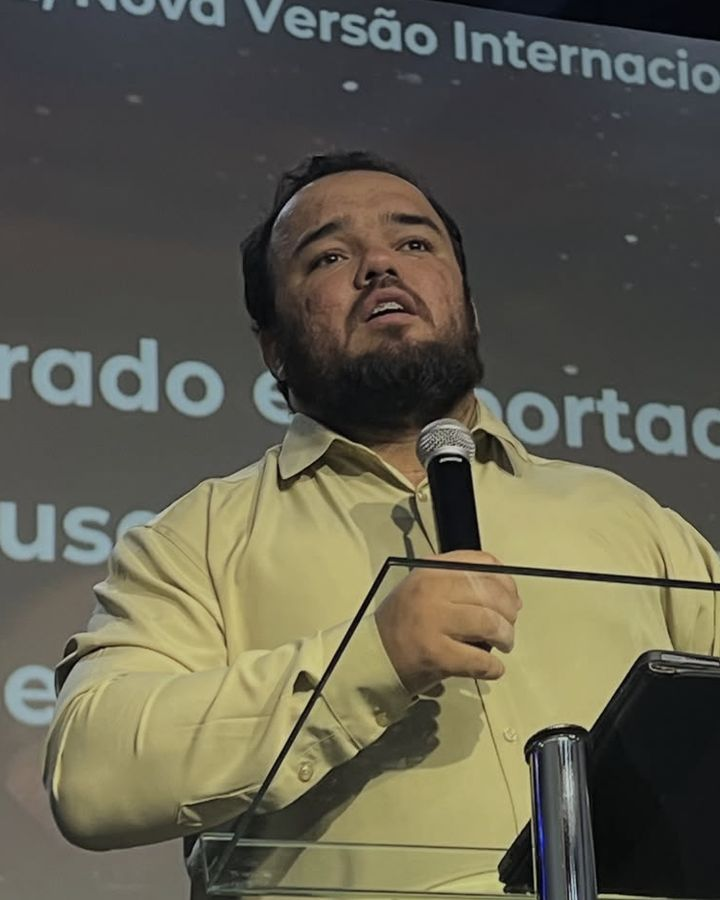
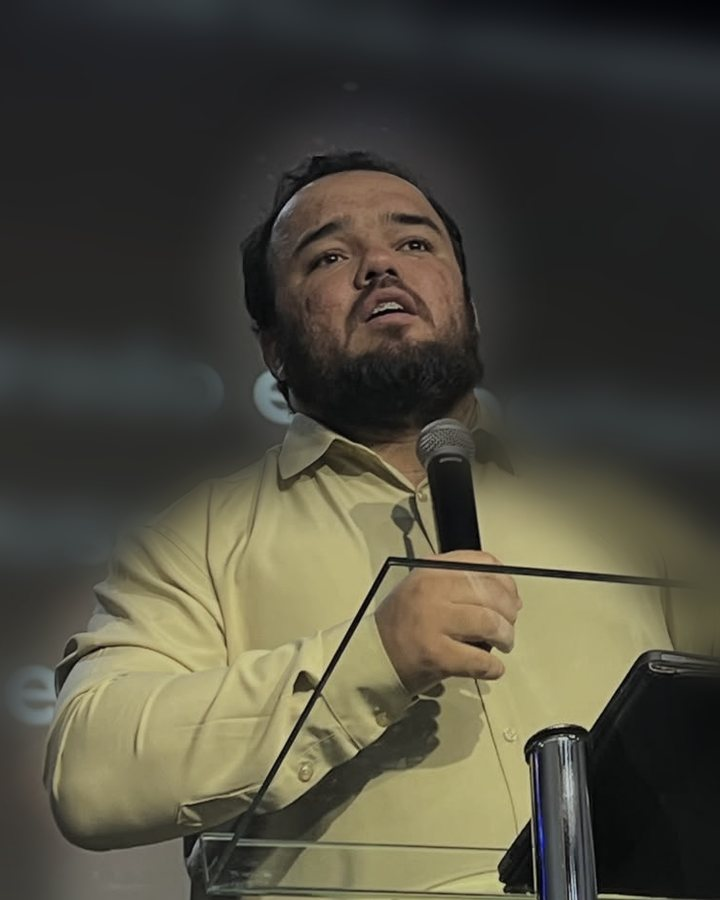
Pastores: seção mais sóbria e profissional
Remove adesivos, faixa inclinada e moldura torta; foto reta com moldura fina,
cargo discreto, contador e navegação sem troca automática. Faixa de versículos
passa a ficar reta entre pastores e ministérios. Fundo do telão desfocado na
foto do Pr. Sebastião Neto.

Claude-Session: https://claude.ai/code/session_01Q2VBkHs8J5TTuFMLHCCTsK

diff --git a/sites/palavra-da-vida/css/style.css b/sites/palavra-da-vida/css/style.css
@@ -241,70 +241,92 @@ em { font-style: italic; }
 }
 
 /* =========================================================
-   Pastores
+   Pastores (sóbrio: sem adesivos, foto reta, moldura fina)
    ========================================================= */
-.pastores { background: var(--ink); color: var(--paper-3); padding: clamp(72px, 9vw, 112px) 0; position: relative; overflow: hidden; }
-.pastores__head { position: relative; text-align: center; padding: 28px 0 44px; }
-.pastores__head h2 { font-size: clamp(2.4rem, 5.4vw, 4.2rem); line-height: 1.04; letter-spacing: -.02em; }
+.pastores { background: var(--ink); color: var(--paper-3); padding: clamp(80px, 10vw, 128px) 0; }
+.pastores__head {
+  display: flex; align-items: flex-end; justify-content: space-between; gap: 32px; flex-wrap: wrap;
+  padding-bottom: clamp(36px, 5vw, 56px); margin-bottom: clamp(40px, 6vw, 72px);
+  border-bottom: 1px solid rgba(250, 246, 238, .14);
+}
+.kicker--gold { color: var(--gold-soft); margin-bottom: 14px; }
+.pastores__head h2 { font-size: clamp(2.4rem, 5vw, 4rem); line-height: 1.02; letter-spacing: -.02em; }
 .pastores__head h2 em { color: var(--gold-soft); }
-.sticker--l { position: absolute; left: 4%; top: 0; transform: rotate(-6deg); }
-.sticker--r { position: absolute; right: 5%; top: -6px; transform: rotate(5deg); }
-
-.marquee { overflow: hidden; white-space: nowrap; }
-.marquee--gold { background: var(--gold); color: var(--ink); padding: 12px 0; margin-bottom: clamp(48px, 7vw, 80px); transform: rotate(-1deg); width: 104%; margin-left: -2%; }
-.marquee__track { display: inline-flex; gap: 28px; align-items: center; animation: marquee 60s linear infinite; padding-left: 28px; }
-.marquee__track span { font-family: var(--display); font-style: italic; font-size: 1.15rem; }
-.marquee__track b { font-family: var(--body); font-style: normal; font-weight: 700; font-size: .75rem; letter-spacing: .12em; text-transform: uppercase; margin-left: 8px; }
-.marquee__track .star { font-style: normal; color: var(--plum); }
-@keyframes marquee { to { transform: translateX(-50%); } }
+.pastores__lead { margin-top: 14px; max-width: 46ch; color: rgba(250, 246, 238, .7); }
 
 .pc { outline: none; }
 .pc-track { display: grid; touch-action: pan-y; user-select: none; -webkit-user-select: none; }
 .pc-track img { -webkit-user-drag: none; pointer-events: none; }
 .pc-slide {
   grid-area: 1 / 1;
-  display: grid; grid-template-columns: minmax(0, .95fr) minmax(0, 1fr); gap: clamp(32px, 6vw, 88px); align-items: center;
-  opacity: 0; visibility: hidden; transition: opacity .6s ease, visibility .6s;
+  display: grid; grid-template-columns: minmax(0, 5fr) minmax(0, 6fr); gap: clamp(36px, 7vw, 104px); align-items: center;
+  opacity: 0; visibility: hidden; transition: opacity .5s ease, visibility .5s;
 }
 .pc-slide.is-active { opacity: 1; visibility: visible; }
-.pc-photo {
-  background: var(--paper-3); padding: 12px 12px 44px; border-radius: 6px;
-  transform: rotate(-2deg); box-shadow: 0 24px 40px -24px rgba(0, 0, 0, .6);
-  max-width: 500px; justify-self: center; width: 100%;
+.pc-photo { position: relative; max-width: 460px; width: 100%; }
+.pc-photo::before {
+  content: ""; position: absolute; inset: 16px -16px -16px 16px;
+  border: 1px solid rgba(241, 201, 124, .55); border-radius: 14px;
 }
-.pc-photo img { width: 100%; aspect-ratio: 4 / 5; object-fit: cover; object-position: 50% 20%; border-radius: 2px; }
-.pc-text h3 { font-size: clamp(2.6rem, 5.2vw, 4.4rem); line-height: 1; letter-spacing: -.02em; margin-top: 18px; }
-.pc-text p { margin: 20px 0 24px; color: rgba(250, 246, 238, .78); font-size: 1.06rem; line-height: 1.75; max-width: 46ch; }
+.pc-photo img { position: relative; width: 100%; aspect-ratio: 4 / 5; object-fit: cover; object-position: 50% 20%; border-radius: 14px; }
+.pc-role { font-size: 12px; font-weight: 700; letter-spacing: .2em; text-transform: uppercase; color: var(--gold-soft); }
+.pc-text h3 { font-size: clamp(2.4rem, 4.6vw, 3.8rem); line-height: 1.02; letter-spacing: -.02em; margin-top: 10px; }
+.pc-bio { margin: 22px 0 26px; color: rgba(250, 246, 238, .78); font-size: 1.06rem; line-height: 1.8; max-width: 46ch; }
+.pc-link { font-size: 14px; color: rgba(250, 246, 238, .75); border-bottom: 1px solid rgba(241, 201, 124, .6); padding-bottom: 2px; }
+.pc-link:hover { color: #fff; border-color: var(--gold); }
 
-.pc-nav { margin-top: clamp(40px, 5vw, 64px); display: flex; align-items: center; justify-content: space-between; gap: 24px; border-top: 1px solid rgba(250, 246, 238, .16); padding-top: 24px; }
-.pc-thumbs { display: flex; gap: clamp(8px, 2vw, 28px); flex-wrap: wrap; }
+.pc-arrows { display: flex; align-items: center; gap: 10px; }
+.pc-count { margin-right: 10px; font-size: 14px; color: rgba(250, 246, 238, .55); font-variant-numeric: tabular-nums; }
+.pc-count b { color: var(--paper-3); font-weight: 500; }
+.round {
+  width: 50px; height: 50px; border-radius: 50%; display: grid; place-items: center; cursor: pointer;
+  border: 1px solid rgba(250, 246, 238, .3); background: none; color: var(--paper-3); transition: background-color .2s, color .2s, border-color .2s;
+}
+.round:hover { background: var(--paper-3); border-color: var(--paper-3); color: var(--ink); }
+.round svg { width: 20px; height: 20px; fill: none; stroke: currentColor; stroke-width: 1.6; stroke-linecap: round; stroke-linejoin: round; }
+
+.pc-thumbs {
+  margin-top: clamp(56px, 7vw, 88px);
+  display: grid; grid-template-columns: repeat(4, 1fr); gap: 16px;
+  border-top: 1px solid rgba(250, 246, 238, .14);
+}
 .pc-thumb {
-  display: flex; align-items: center; gap: 10px; border: 0; background: none; cursor: pointer;
-  color: var(--paper-3); opacity: .5; transition: opacity .25s; padding: 4px;
+  position: relative; display: flex; align-items: center; gap: 12px; padding: 20px 0 0; text-align: left;
+  border: 0; background: none; cursor: pointer; color: var(--paper-3); opacity: .5; transition: opacity .25s;
+}
+.pc-thumb::before {
+  content: ""; position: absolute; left: 0; right: 0; top: -1px; height: 2px; background: var(--gold);
+  transform: scaleX(0); transform-origin: left; transition: transform .4s ease;
 }
 .pc-thumb:hover { opacity: .85; }
 .pc-thumb.is-active { opacity: 1; }
-.pc-thumb img { width: 44px; height: 44px; border-radius: 50%; object-fit: cover; object-position: 50% 15%; border: 2px solid transparent; transition: border-color .25s; }
-.pc-thumb.is-active img { border-color: var(--gold); }
-.pc-thumb span { font-size: 14px; font-weight: 500; }
-.pc-arrows { display: flex; gap: 10px; }
-.round {
-  width: 50px; height: 50px; border-radius: 50%; display: grid; place-items: center; cursor: pointer;
-  border: 1.5px solid rgba(250, 246, 238, .35); background: none; color: var(--paper-3); transition: background-color .2s, color .2s, border-color .2s;
-}
-.round:hover { background: var(--gold); border-color: var(--gold); color: var(--ink); }
-.round svg { width: 20px; height: 20px; fill: none; stroke: currentColor; stroke-width: 1.8; stroke-linecap: round; stroke-linejoin: round; }
+.pc-thumb.is-active::before { transform: scaleX(1); }
+.pc-thumb img { width: 46px; height: 46px; border-radius: 50%; object-fit: cover; object-position: 50% 15%; flex: none; }
+.pc-thumb span { display: grid; line-height: 1.3; min-width: 0; }
+.pc-thumb b { font-size: 15px; font-weight: 500; white-space: nowrap; overflow: hidden; text-overflow: ellipsis; }
+.pc-thumb small { font-size: 12.5px; color: rgba(250, 246, 238, .6); }
 
 @media (max-width: 860px) {
-  .pc-slide { grid-template-columns: 1fr; gap: 36px; align-items: start; }
-  .pc-photo { max-width: 360px; }
+  .pastores__head { align-items: flex-start; }
+  .pc-slide { grid-template-columns: 1fr; gap: 40px; align-items: start; }
+  .pc-photo { max-width: none; width: calc(100% - 16px); }
+  .pc-photo img { aspect-ratio: 1 / 1; object-position: 50% 18%; }
+  .pc-thumbs { gap: 6px; margin-top: 48px; }
+  .pc-thumb { flex-direction: column; align-items: center; text-align: center; gap: 8px; padding-top: 16px; }
   .pc-thumb span { display: none; }
-  .pc-thumbs { flex-wrap: nowrap; gap: 4px; }
-  .pc-thumb img { width: 40px; height: 40px; }
-  .round { width: 46px; height: 46px; }
-  .sticker--l { left: 0; top: -18px; }
-  .sticker--r { right: 0; top: auto; bottom: 4px; }
 }
+@media (max-width: 560px) {
+  .pc-count { display: none; }
+  .round { width: 46px; height: 46px; }
+}
+
+/* ---------- Faixa de versículos (entre pastores e ministérios) ---------- */
+.marquee { overflow: hidden; white-space: nowrap; background: var(--gold); color: var(--ink); padding: 14px 0; }
+.marquee__track { display: inline-flex; gap: 28px; align-items: center; animation: marquee 70s linear infinite; padding-left: 28px; }
+.marquee__track span { font-family: var(--display); font-style: italic; font-size: 1.1rem; }
+.marquee__track b { font-family: var(--body); font-style: normal; font-weight: 700; font-size: .72rem; letter-spacing: .12em; text-transform: uppercase; margin-left: 8px; }
+.marquee__track .star { font-style: normal; color: var(--plum); }
+@keyframes marquee { to { transform: translateX(-50%); } }
 
 /* =========================================================
    Ministérios

diff --git a/sites/palavra-da-vida/index.html b/sites/palavra-da-vida/index.html
@@ -118,77 +118,79 @@
 
   <!-- Pastores -->
   <section class="pastores" id="pastores">
-    <div class="wrap pastores__head">
-      <span class="sticker sticker--gold sticker--l">Uma família</span>
-      <span class="sticker sticker--plum sticker--r">Para pertencer</span>
-      <h2>Conheça os nossos <em>pastores</em></h2>
-    </div>
-
-    <div class="marquee marquee--gold" aria-hidden="true">
-      <div class="marquee__track">
-        <span>O Senhor é o meu pastor; nada me faltará. <b>Salmos 23:1</b></span><span class="star">✦</span>
-        <span>Nele estava a vida, e a vida era a luz dos homens. <b>João 1:4</b></span><span class="star">✦</span>
-        <span>Lâmpada para os meus pés é a tua palavra e luz para o meu caminho. <b>Salmos 119:105</b></span><span class="star">✦</span>
-        <span>O Senhor é o meu pastor; nada me faltará. <b>Salmos 23:1</b></span><span class="star">✦</span>
-        <span>Nele estava a vida, e a vida era a luz dos homens. <b>João 1:4</b></span><span class="star">✦</span>
-        <span>Lâmpada para os meus pés é a tua palavra e luz para o meu caminho. <b>Salmos 119:105</b></span><span class="star">✦</span>
-      </div>
-    </div>
-
     <div class="wrap">
+      <div class="pastores__head">
+        <div>
+          <p class="kicker kicker--gold">Liderança</p>
+          <h2>Nossos <em>pastores</em></h2>
+          <p class="pastores__lead">Chamados para ensinar a Palavra, cuidar das pessoas e conduzir a igreja com fé e responsabilidade.</p>
+        </div>
+        <div class="pc-arrows">
+          <span class="pc-count" aria-hidden="true"><b data-pc-current>01</b> / 04</span>
+          <button class="round" type="button" data-pc-prev aria-label="Pastor anterior"><svg viewBox="0 0 24 24" aria-hidden="true"><path d="M15 5l-7 7 7 7"/></svg></button>
+          <button class="round" type="button" data-pc-next aria-label="Próximo pastor"><svg viewBox="0 0 24 24" aria-hidden="true"><path d="M9 5l7 7-7 7"/></svg></button>
+        </div>
+      </div>
+
       <div class="pc" data-pc aria-roledescription="carrossel" aria-label="Pastores da igreja" tabindex="0">
         <div class="pc-track">
           <article class="pc-slide is-active" aria-roledescription="slide" aria-label="1 de 4">
             <figure class="pc-photo"><img src="img/pastor-rodrigo.jpg" alt="Pastor Rodrigo"></figure>
             <div class="pc-text">
-              <span class="sticker sticker--plum">Pastor principal</span>
+              <p class="pc-role">Pastor principal</p>
               <h3>Pr. Rodrigo</h3>
-              <p>À frente da Palavra da Vida, o Pr. Rodrigo conduz a igreja com a visão de ser uma família para pertencer: uma casa onde a Palavra é ensinada com clareza e cada pessoa encontra o seu lugar.</p>
-              <a class="text-link" href="https://www.instagram.com/rodrigogoveia_/" target="_blank" rel="noopener">@rodrigogoveia_</a>
+              <p class="pc-bio">À frente da Palavra da Vida, o Pr. Rodrigo conduz a igreja com a visão de ser uma família para pertencer: uma casa onde a Palavra é ensinada com clareza e cada pessoa encontra o seu lugar.</p>
+              <a class="pc-link" href="https://www.instagram.com/rodrigogoveia_/" target="_blank" rel="noopener">Instagram · @rodrigogoveia_</a>
             </div>
           </article>
           <article class="pc-slide" aria-roledescription="slide" aria-label="2 de 4">
             <figure class="pc-photo"><img src="img/pastora-luciana.jpg" alt="Pastora Luciana" loading="lazy"></figure>
             <div class="pc-text">
-              <span class="sticker sticker--plum">Pastora</span>
+              <p class="pc-role">Pastora</p>
               <h3>Pra. Luciana</h3>
-              <p>A Pra. Luciana serve a igreja com cuidado e sensibilidade. Caminha de perto com as pessoas e encoraja cada uma a viver o propósito de Deus com alegria.</p>
-              <a class="text-link" href="https://www.instagram.com/pra.lucianagoveia/" target="_blank" rel="noopener">@pra.lucianagoveia</a>
+              <p class="pc-bio">A Pra. Luciana serve a igreja com cuidado e sensibilidade. Caminha de perto com as pessoas e encoraja cada uma a viver o propósito de Deus com alegria.</p>
+              <a class="pc-link" href="https://www.instagram.com/pra.lucianagoveia/" target="_blank" rel="noopener">Instagram · @pra.lucianagoveia</a>
             </div>
           </article>
           <article class="pc-slide" aria-roledescription="slide" aria-label="3 de 4">
             <figure class="pc-photo"><img src="img/pastor-carlos.jpg" alt="Pastor Carlos" loading="lazy"></figure>
             <div class="pc-text">
-              <span class="sticker sticker--plum">Pastor auxiliar</span>
+              <p class="pc-role">Pastor auxiliar</p>
               <h3>Pr. Carlos</h3>
-              <p>O Pr. Carlos serve no ensino da Palavra e no cuidado pastoral, ajudando a igreja a crescer firmada nas Escrituras, em oração e em comunhão.</p>
+              <p class="pc-bio">O Pr. Carlos serve no ensino da Palavra e no cuidado pastoral, ajudando a igreja a crescer firmada nas Escrituras, em oração e em comunhão.</p>
             </div>
           </article>
           <article class="pc-slide" aria-roledescription="slide" aria-label="4 de 4">
             <figure class="pc-photo"><img src="img/pastor-sebastiao.jpg" alt="Pastor Sebastião Neto" loading="lazy"></figure>
             <div class="pc-text">
-              <span class="sticker sticker--plum">Pastor auxiliar</span>
+              <p class="pc-role">Pastor auxiliar</p>
               <h3>Pr. Sebastião Neto</h3>
-              <p>O Pr. Sebastião Neto serve na pregação e no pastoreio, levando uma palavra de fé e de ânimo para cada pessoa que chega à nossa casa.</p>
+              <p class="pc-bio">O Pr. Sebastião Neto serve na pregação e no pastoreio, levando uma palavra de fé e de ânimo para cada pessoa que chega à nossa casa.</p>
             </div>
           </article>
         </div>
 
-        <div class="pc-nav">
-          <div class="pc-thumbs" role="tablist" aria-label="Escolha um pastor">
-            <button role="tab" class="pc-thumb is-active" aria-selected="true" data-pc-go="0"><img src="img/pastor-rodrigo.jpg" alt=""><span>Rodrigo</span></button>
-            <button role="tab" class="pc-thumb" aria-selected="false" data-pc-go="1"><img src="img/pastora-luciana.jpg" alt=""><span>Luciana</span></button>
-            <button role="tab" class="pc-thumb" aria-selected="false" data-pc-go="2"><img src="img/pastor-carlos.jpg" alt=""><span>Carlos</span></button>
-            <button role="tab" class="pc-thumb" aria-selected="false" data-pc-go="3"><img src="img/pastor-sebastiao.jpg" alt=""><span>Sebastião Neto</span></button>
-          </div>
-          <div class="pc-arrows">
-            <button class="round" type="button" data-pc-prev aria-label="Pastor anterior"><svg viewBox="0 0 24 24" aria-hidden="true"><path d="M15 5l-7 7 7 7"/></svg></button>
-            <button class="round" type="button" data-pc-next aria-label="Próximo pastor"><svg viewBox="0 0 24 24" aria-hidden="true"><path d="M9 5l7 7-7 7"/></svg></button>
-          </div>
+        <div class="pc-thumbs" role="tablist" aria-label="Escolha um pastor">
+          <button role="tab" class="pc-thumb is-active" aria-selected="true" data-pc-go="0"><img src="img/pastor-rodrigo.jpg" alt=""><span><b>Pr. Rodrigo</b><small>Pastor principal</small></span></button>
+          <button role="tab" class="pc-thumb" aria-selected="false" data-pc-go="1"><img src="img/pastora-luciana.jpg" alt=""><span><b>Pra. Luciana</b><small>Pastora</small></span></button>
+          <button role="tab" class="pc-thumb" aria-selected="false" data-pc-go="2"><img src="img/pastor-carlos.jpg" alt=""><span><b>Pr. Carlos</b><small>Pastor auxiliar</small></span></button>
+          <button role="tab" class="pc-thumb" aria-selected="false" data-pc-go="3"><img src="img/pastor-sebastiao.jpg" alt=""><span><b>Pr. Sebastião Neto</b><small>Pastor auxiliar</small></span></button>
         </div>
       </div>
     </div>
   </section>
+
+  <!-- Faixa de versículos -->
+  <div class="marquee" aria-hidden="true">
+    <div class="marquee__track">
+      <span>O Senhor é o meu pastor; nada me faltará. <b>Salmos 23:1</b></span><span class="star">✦</span>
+      <span>Nele estava a vida, e a vida era a luz dos homens. <b>João 1:4</b></span><span class="star">✦</span>
+      <span>Lâmpada para os meus pés é a tua palavra e luz para o meu caminho. <b>Salmos 119:105</b></span><span class="star">✦</span>
+      <span>O Senhor é o meu pastor; nada me faltará. <b>Salmos 23:1</b></span><span class="star">✦</span>
+      <span>Nele estava a vida, e a vida era a luz dos homens. <b>João 1:4</b></span><span class="star">✦</span>
+      <span>Lâmpada para os meus pés é a tua palavra e luz para o meu caminho. <b>Salmos 119:105</b></span><span class="star">✦</span>
+    </div>
+  </div>
 
   <!-- Ministérios -->
   <section class="ministerios" id="ministerios">

diff --git a/sites/palavra-da-vida/js/main.js b/sites/palavra-da-vida/js/main.js
@@ -33,7 +33,8 @@
   if (pc) {
     var slides = pc.querySelectorAll('.pc-slide');
     var thumbs = pc.querySelectorAll('.pc-thumb');
-    var index = 0, timer = null, userTook = false;
+    var current = document.querySelector('[data-pc-current]');
+    var index = 0;
 
     function go(i, fromUser) {
       index = (i + slides.length) % slides.length;
@@ -47,15 +48,13 @@
         t.classList.toggle('is-active', n === index);
         t.setAttribute('aria-selected', n === index ? 'true' : 'false');
       });
-      if (fromUser) { userTook = true; stop(); }
+      if (current) current.textContent = String(index + 1).padStart(2, '0');
     }
     function next(u) { go(index + 1, u); }
     function prev(u) { go(index - 1, u); }
-    function start() { if (!reduceMotion && !userTook && !timer) timer = setInterval(next, 7000); }
-    function stop() { clearInterval(timer); timer = null; }
 
-    pc.querySelector('[data-pc-next]').addEventListener('click', function () { next(true); });
-    pc.querySelector('[data-pc-prev]').addEventListener('click', function () { prev(true); });
+    document.querySelector('[data-pc-next]').addEventListener('click', function () { next(true); });
+    document.querySelector('[data-pc-prev]').addEventListener('click', function () { prev(true); });
     thumbs.forEach(function (t) {
       t.addEventListener('click', function () { go(+t.getAttribute('data-pc-go'), true); });
     });
@@ -74,12 +73,6 @@
       x0 = null;
     });
 
-    pc.addEventListener('mouseenter', stop);
-    pc.addEventListener('mouseleave', start);
-    pc.addEventListener('focusin', stop);
-    if ('IntersectionObserver' in window) {
-      new IntersectionObserver(function (entries) { entries[0].isIntersecting ? start() : stop(); }, { threshold: 0.4 }).observe(pc);
-    }
     go(0);
   }
 
